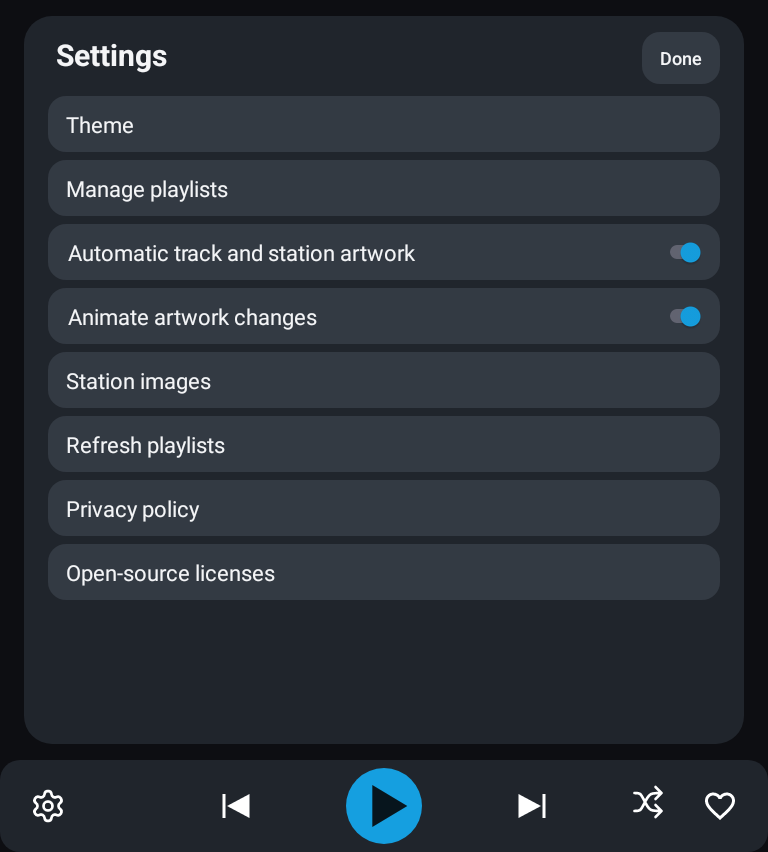
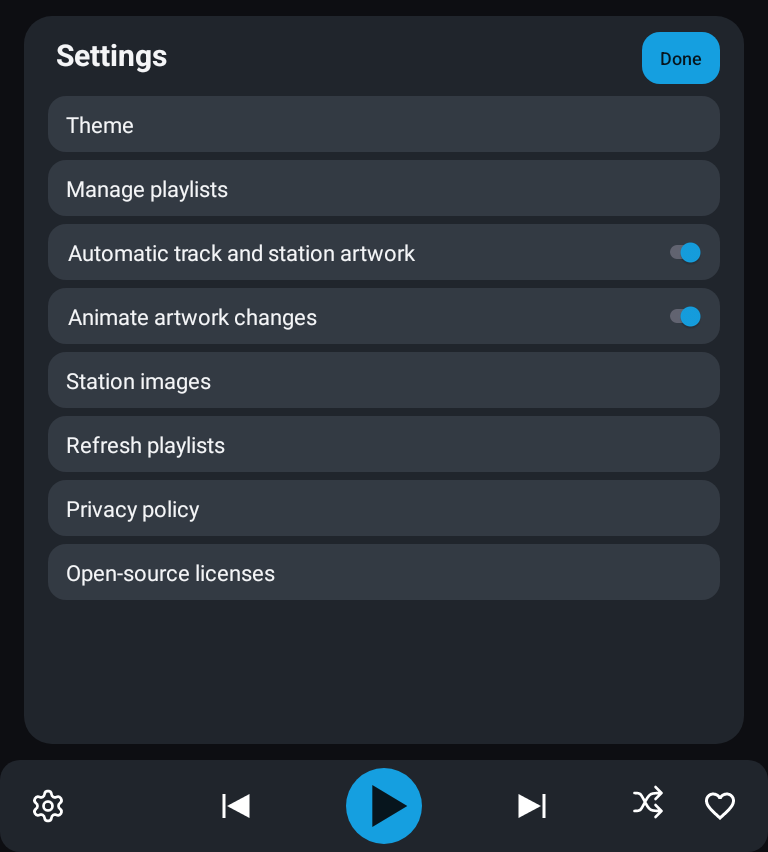
Reconcile prepared source, guard CI inventory and theme Done actions

Changed region(s): [[0.8125, 0.0305, 0.9375, 0.1221]]

diff --git a/app/src/androidTest/java/net/mspanc/twinsenradio/automotive/PrototypeSmokeInstrumentation.kt b/app/src/androidTest/java/net/mspanc/twinsenradio/automotive/PrototypeSmokeInstrumentation.kt
@@ -143,6 +143,11 @@ class PrototypeSmokeInstrumentation : Instrumentation() {
                     checkThat("all Settings captions retain 22sp typography", found.all { kotlin.math.abs(it.textSize / targetContext.resources.displayMetrics.scaledDensity - 22f) < 0.1f })
                     checkThat("all Settings captions use regular font weight", found.all { it.typeface.weight == 400 })
                     checkThat("all Settings rows remain 56dp high", found.all { kotlin.math.abs(it.height / targetContext.resources.displayMetrics.density - 56f) < 0.1f })
+                    val done = labels(content).single { it.text.toString() == "Done" }
+                    val theme = net.mspanc.twinsenradio.data.AppearanceTheme.current(targetContext)
+                    val surface = (done.background as android.graphics.drawable.RippleDrawable).getDrawable(0) as android.graphics.drawable.GradientDrawable
+                    checkThat("Settings Done uses selected theme accent background", surface.color?.defaultColor == theme.accent)
+                    checkThat("Settings Done uses matching on-accent text", done.currentTextColor == theme.onAccent)
                     val bitmap = Bitmap.createBitmap(content.width, content.height, Bitmap.Config.ARGB_8888)
                     try {
                         content.draw(Canvas(bitmap))

diff --git a/app/src/automotive/java/net/mspanc/twinsenradio/automotive/RadioManagement.kt b/app/src/automotive/java/net/mspanc/twinsenradio/automotive/RadioManagement.kt
@@ -41,7 +41,7 @@ class RadioManagement(
  private fun text(value:String,size:Float=18f,color:Int=AutomotiveDesign.TEXT)=TextView(activity).apply {
   text=value; textSize=size; setTextColor(color); setPadding(dp(8),dp(6),dp(8),dp(6))
  }
- private fun button(value:String,accent:Boolean=false,action:()->Unit)=TextView(activity).apply {
+ private fun button(value:String,accent:Boolean=value=="Done",action:()->Unit)=TextView(activity).apply {
   text=value; textSize=AutomotiveDesign.BUTTON_TEXT_SP; setTypeface(Typeface.create("sans-serif-medium",Typeface.NORMAL)); setTextColor(if(accent)AppearanceTheme.current(activity).onAccent else AutomotiveDesign.TEXT); gravity=Gravity.CENTER; minHeight=dp(52)
   setPadding(dp(18),dp(6),dp(18),dp(6)); isFocusable=true
   background=RippleDrawable(ColorStateList.valueOf(0x30ffffff),rounded(if(accent)coral else AutomotiveDesign.CONTROL),null)

diff --git a/docs/HANDOFF-NEXT.md b/docs/HANDOFF-NEXT.md
@@ -50,3 +50,8 @@ Latest debug + test APK + unsigned release bundle build passed2m1s. Installed on
 
 ## Publication authorized — 3 November
 User explicitly approved committing and pushing the prepared UI, README, design rules and Actions fixes and checking the resulting CI run until it passes. No Play upload, physical-car action, broadcaster outreach or credential transfer is authorized. Prior notes saying these changes await commit/push are historical. CI result must be checked against the new exact commit; no green claim yet.
+
+## Resumed: CI source reconciliation and Done accents — 3 November
+User resumed and supplied the failed Gradle block. Run41585517104 failed compiling R357NowPlayingTest because its R357NowPlaying implementation was removed. Prepared export overlay had retained3upstream files absent from the177-file app/src inventory: R357NowPlayingTest, TritonNowPlaying and TritonNowPlayingTest. Removed exactly those3files to match the tested prepared source. Active feature tests are retained; no test task was skipped. Early check-source-tree guard reproduced the mismatch before cleanup and passed after it. Gradlew now executable, and exporter preserves0755.
+Shared Done controls now use current theme accent/onAccent like Theme; Back/Cancel unchanged. Local debug/test/unsigned release builds,242release tests and full lint passed. Emulator settings-typography mode passed6checks:8captions,22sp,400weight,56dp rows and Done accent/text. Settings README capture refreshed; user library not replaced. Version4 remains the next unsigned candidate, existing Play upload remains3. No Play or physical car actions.
+These fixes are authorized for commit/push and another Actions run; priorCIstatus is failed until the new exact SHA is observed green.

diff --git a/AGENTS.md b/AGENTS.md
@@ -19,3 +19,5 @@ Streaming Radio by Impostor Labs. Debug com.impostorlabs.streamingradio.debug; p
 
 ## Mandatory UI change discipline
 The Preserve approved design / consistency section of docs/DESIGN-SYSTEM.md applies to EVERY view. Requested sizing fixes must not alter fonts, icons, labels, controls or layout elsewhere. Equivalent rows use shared typography and dimensions. Verify installed rendering against approved references before reporting completion. Settings currently use22sp labels,56dp cells and48dp switch targets; shared action text remains18sp. These are standing requirements, not optional per-task suggestions.
+
+Public-source preparation must reconcile app/src deletions as well as additions. Do not overlay an export onto upstream while retaining obsolete source/tests. CI tools/check-source-tree.cjs checks the Git app/src inventory before compilation. Preserve executable mode for gradlew. All Done buttons use the active theme accent/onAccent; Back/Cancel stay neutral.

diff --git a/docs/DESIGN-SYSTEM.md b/docs/DESIGN-SYSTEM.md
@@ -71,3 +71,5 @@ Settings sizing rule (3 November 2026): all Settings action and toggle cells are
 - Update handoff docs and regression coverage for any discovered inconsistency. Record source/build/install/render/CI/publication status separately. Never describe an unpushed workflow fix as a passing GitHub run.
 
 Settings caption font is shared sans-serif regular (weight400),22sp for both action and toggle rows. Done/Back/Cancel keep their existing18sp medium action style. The settings-typography instrumentation mode checks8captions,22sp,400weight and56dp rows and captures actual app content without replacing the user library.
+
+Done-button rule (3 November): every app-owned Done action uses the selected theme accent background and on-accent text, matching Theme. Back and Cancel remain neutral. Preserve caption typography, dimensions and control positions. Shared button defaults enforce the Done treatment.
